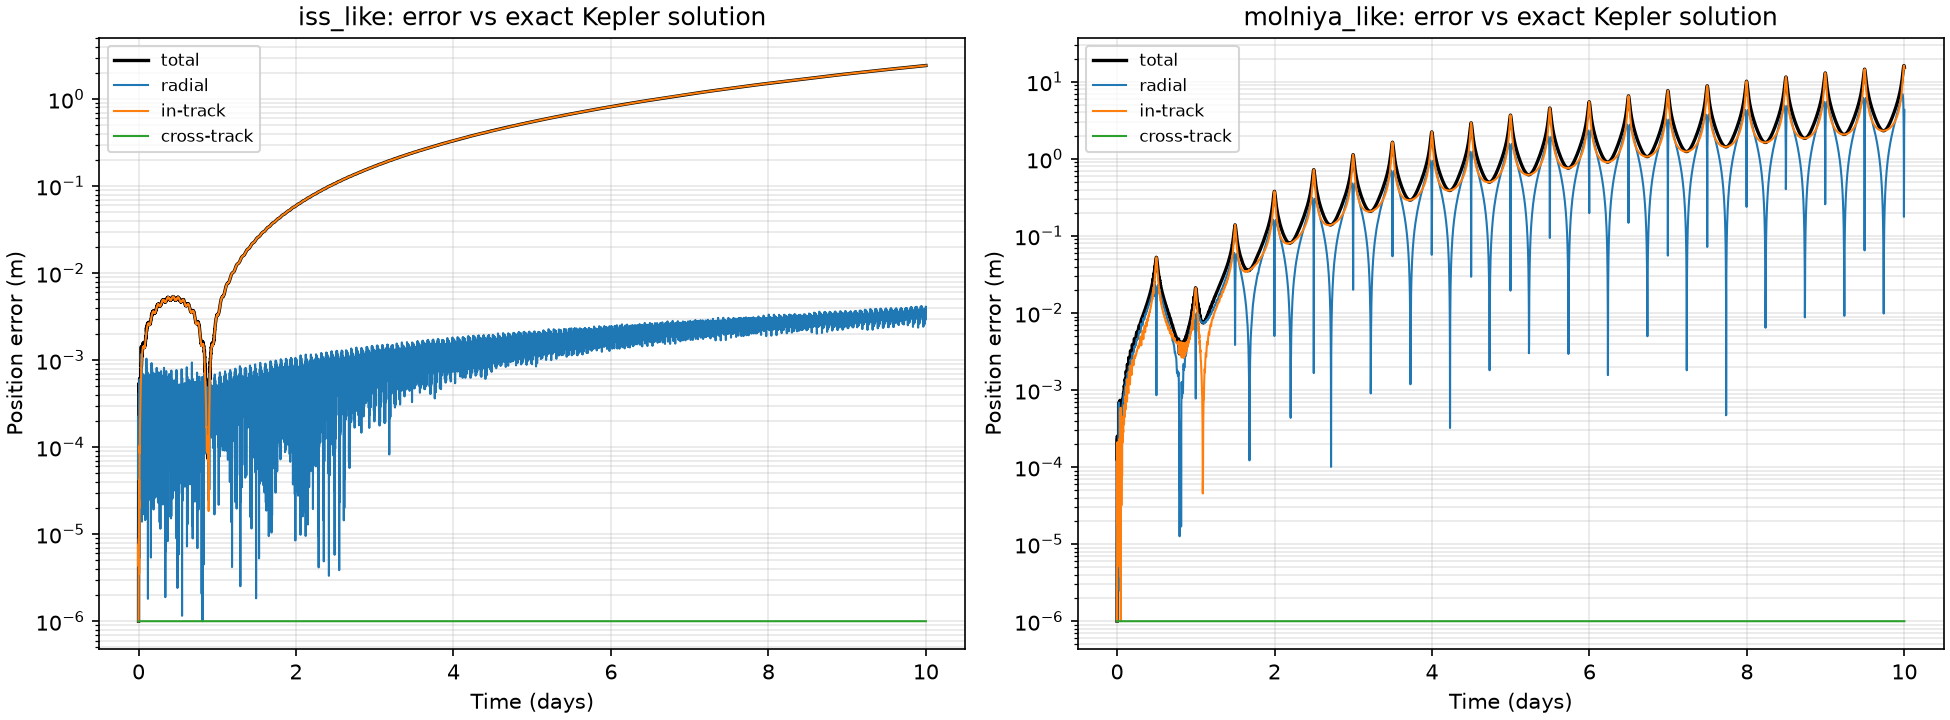
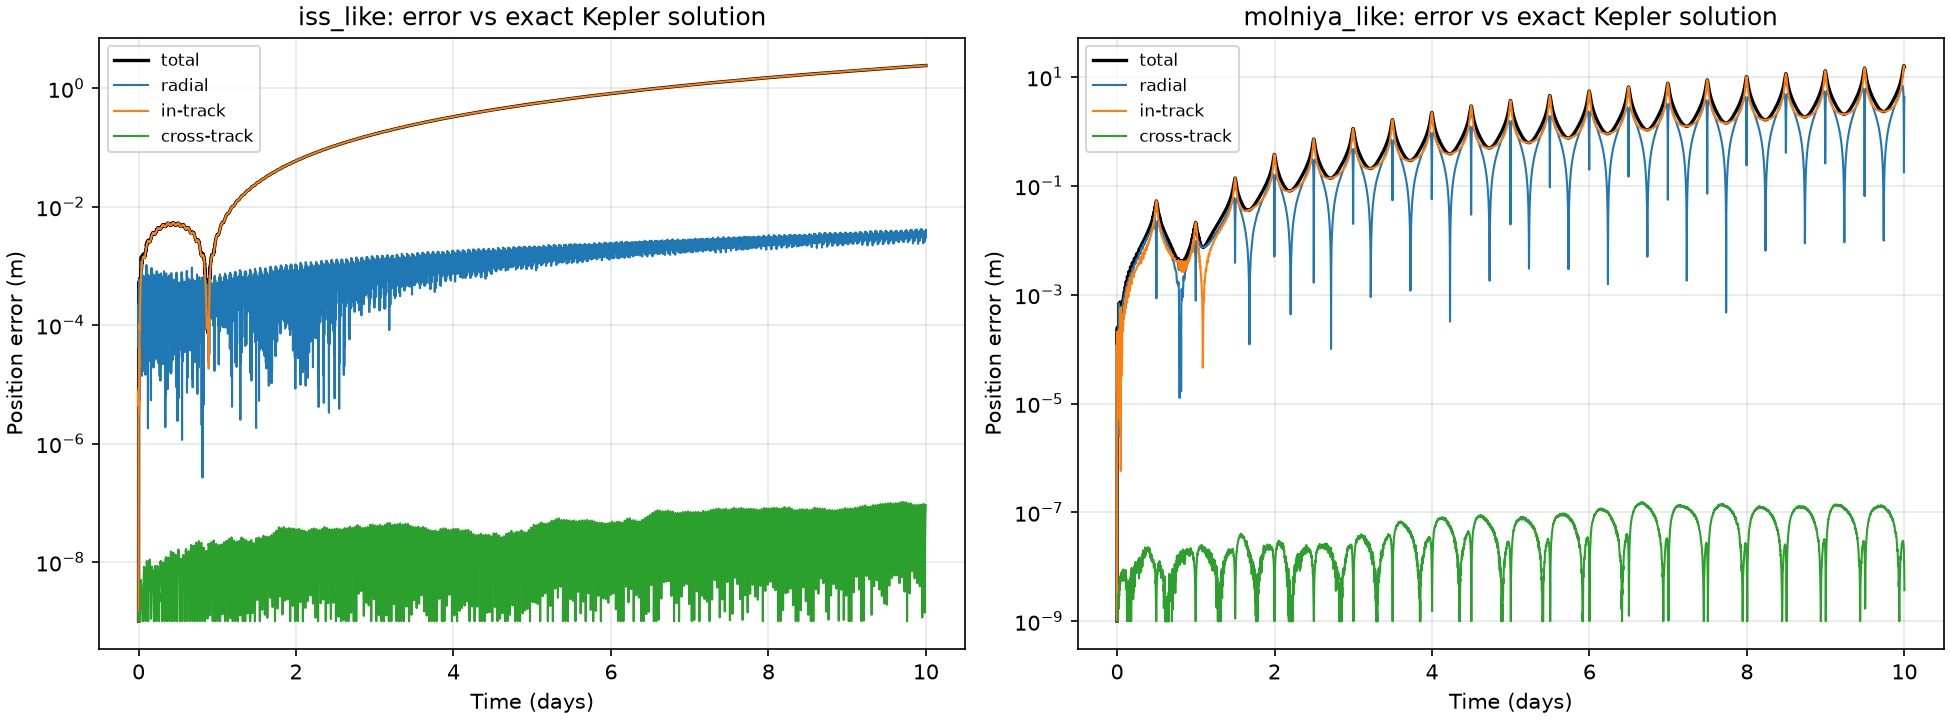
Validation: clarify Molniya perigee peaks; lower plot floor

diff --git a/benchmarks/two_body_validation.py b/benchmarks/two_body_validation.py
@@ -29,7 +29,7 @@ RUN_DAYS = 10
 STEP_S = 120.0
 SWEEP_TOLERANCES = [1e-6, 1e-7, 1e-8, 1e-9, 1e-10, 1e-11, 1e-12]
 ATOL_FACTOR = 1e-2                     # atol = rtol * ATOL_FACTOR in the sweep
-LOG_FLOOR_M = 1e-6                     # errors of exactly 0 cannot go on a log axis
+LOG_FLOOR_M = 1e-9                     # errors of exactly 0 cannot go on a log axis
 
 
 # --- Helpers -------------------------------------------------------------------

diff --git a/README.md b/README.md
@@ -23,8 +23,9 @@ which shares no code with the propagator). DOP853, rtol 1e-10, atol 1e-12:
   through energy → semi-major axis → period → timing: 2.66 m predicted vs
   2.43 m measured for the ISS-like orbit (within 10%), and 17.8 m vs 14.8 m
   for the Molniya (within 20%).
-- The Molniya error grows in steps at each perigee pass, where the satellite
-  is fastest and the path curves most sharply.
+- The Molniya error peaks at every perigee pass. The timing error grows smoothly, but near perigee
+  the satellite moves about 7× faster than at apogee (10 vs 1.5 km/s), so the same timing error
+  becomes a larger distance. The 10-day value falls on a perigee peak.
 - Numerical error is far below what operations need (conjunction screening
   ~10 m, catalogue tracking ~1 km), so in practice accuracy is limited by the
   force model, not the integrator.
